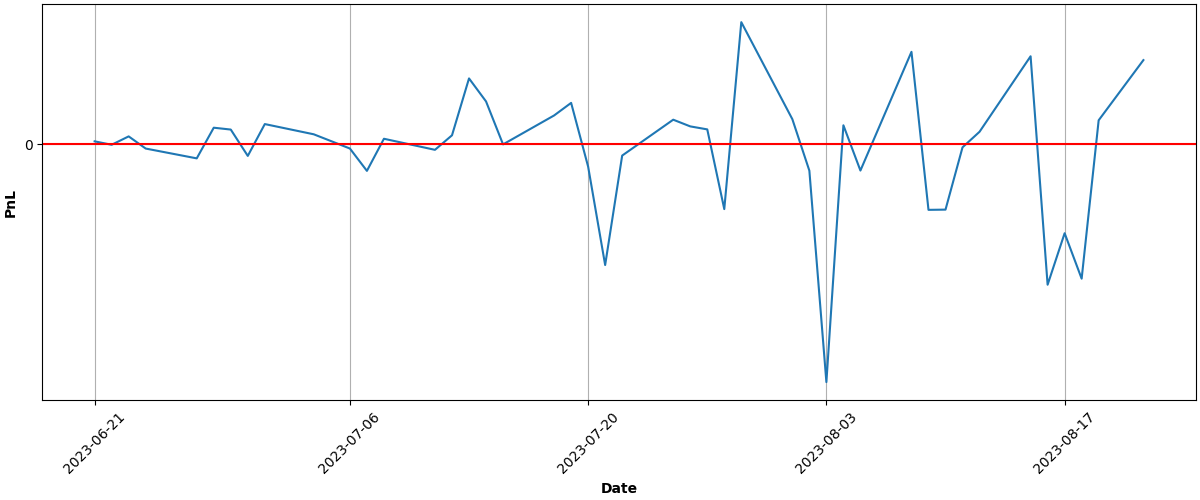
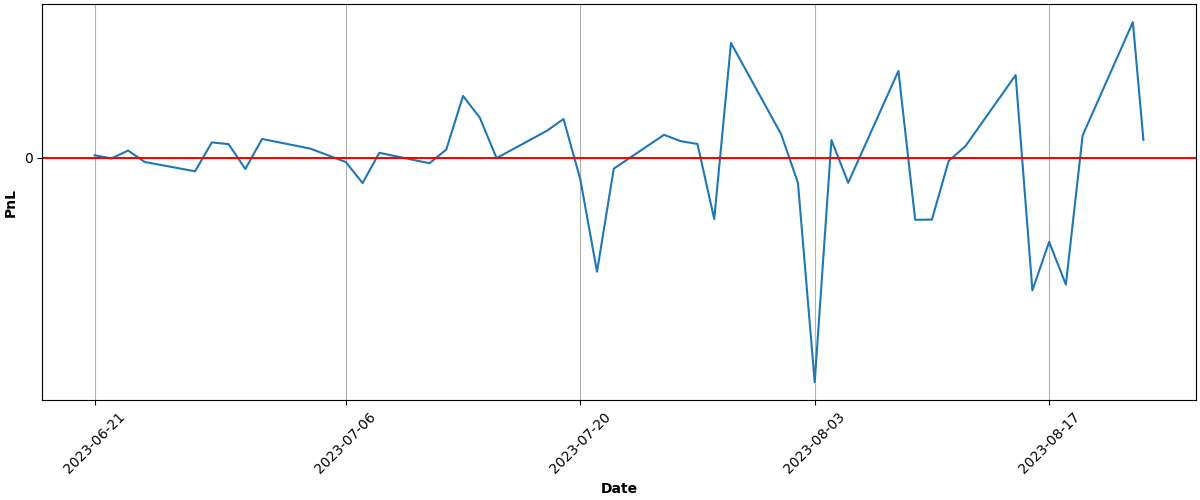
Automated Buy At Tue Aug 22 15:04:19 UTC 2023 Run ID 5940623052

diff --git a/README.md b/README.md
@@ -68,9 +68,9 @@ Results
 
 | Asset | Average Price | Current Price | ROI | 📈 |
 | --- | --- | --- | --- | --- |
-| FNGU | $184.844912878 | $157.73 | -14.67% | &#128308;&#128546; |
-| SVIX | $27.607188889 | $26.5991 | -3.65% | &#128308;&#128546; |
-| **Total** |  |  | **-8.89%** | &#128308;&#128557; |
+| FNGU | $184.399545609 | $166.3 | -9.82% | &#128308;&#128546; |
+| SVIX | $27.607188889 | $26.73 | -3.18% | &#128308;&#128546; |
+| **Total** |  |  | **-6.37%** | &#128308;&#128557; |
 
 ### PnL over time (calculations may not be accurate):
 
@@ -81,6 +81,6 @@ Results
 ---
 
 
-Updated at 2023-08-21 15:05:01
+Updated at 2023-08-22 15:04:36
 
 
